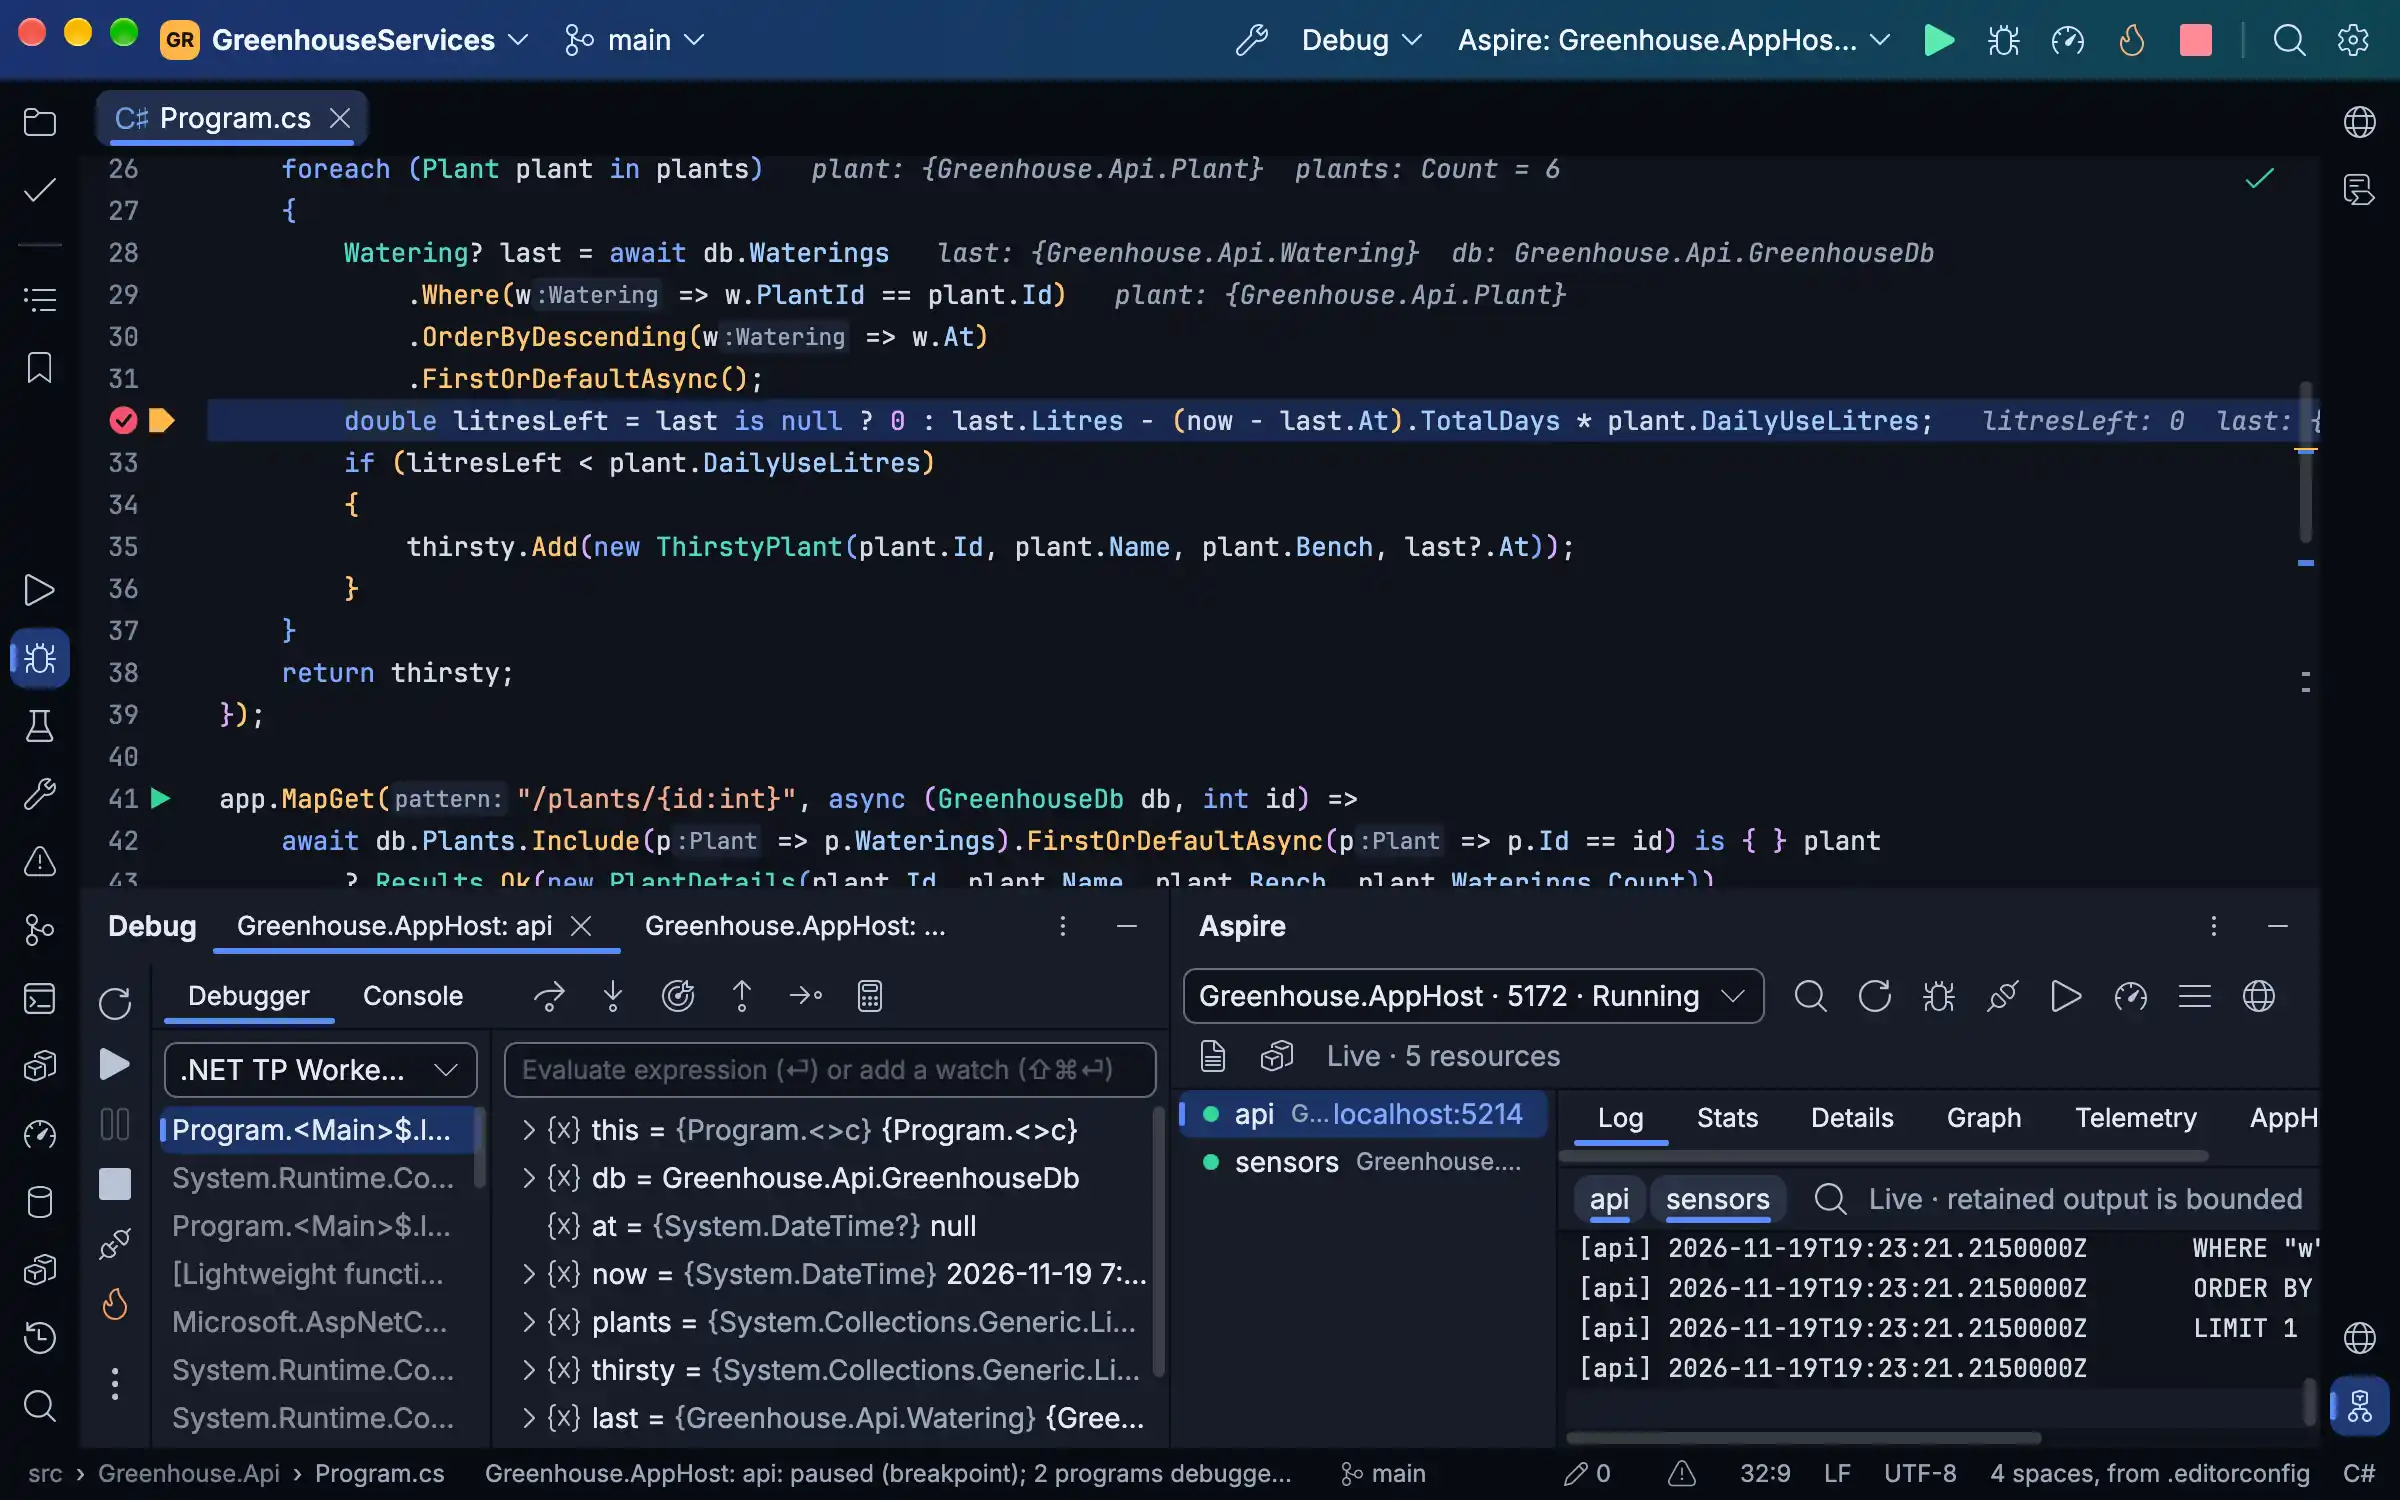
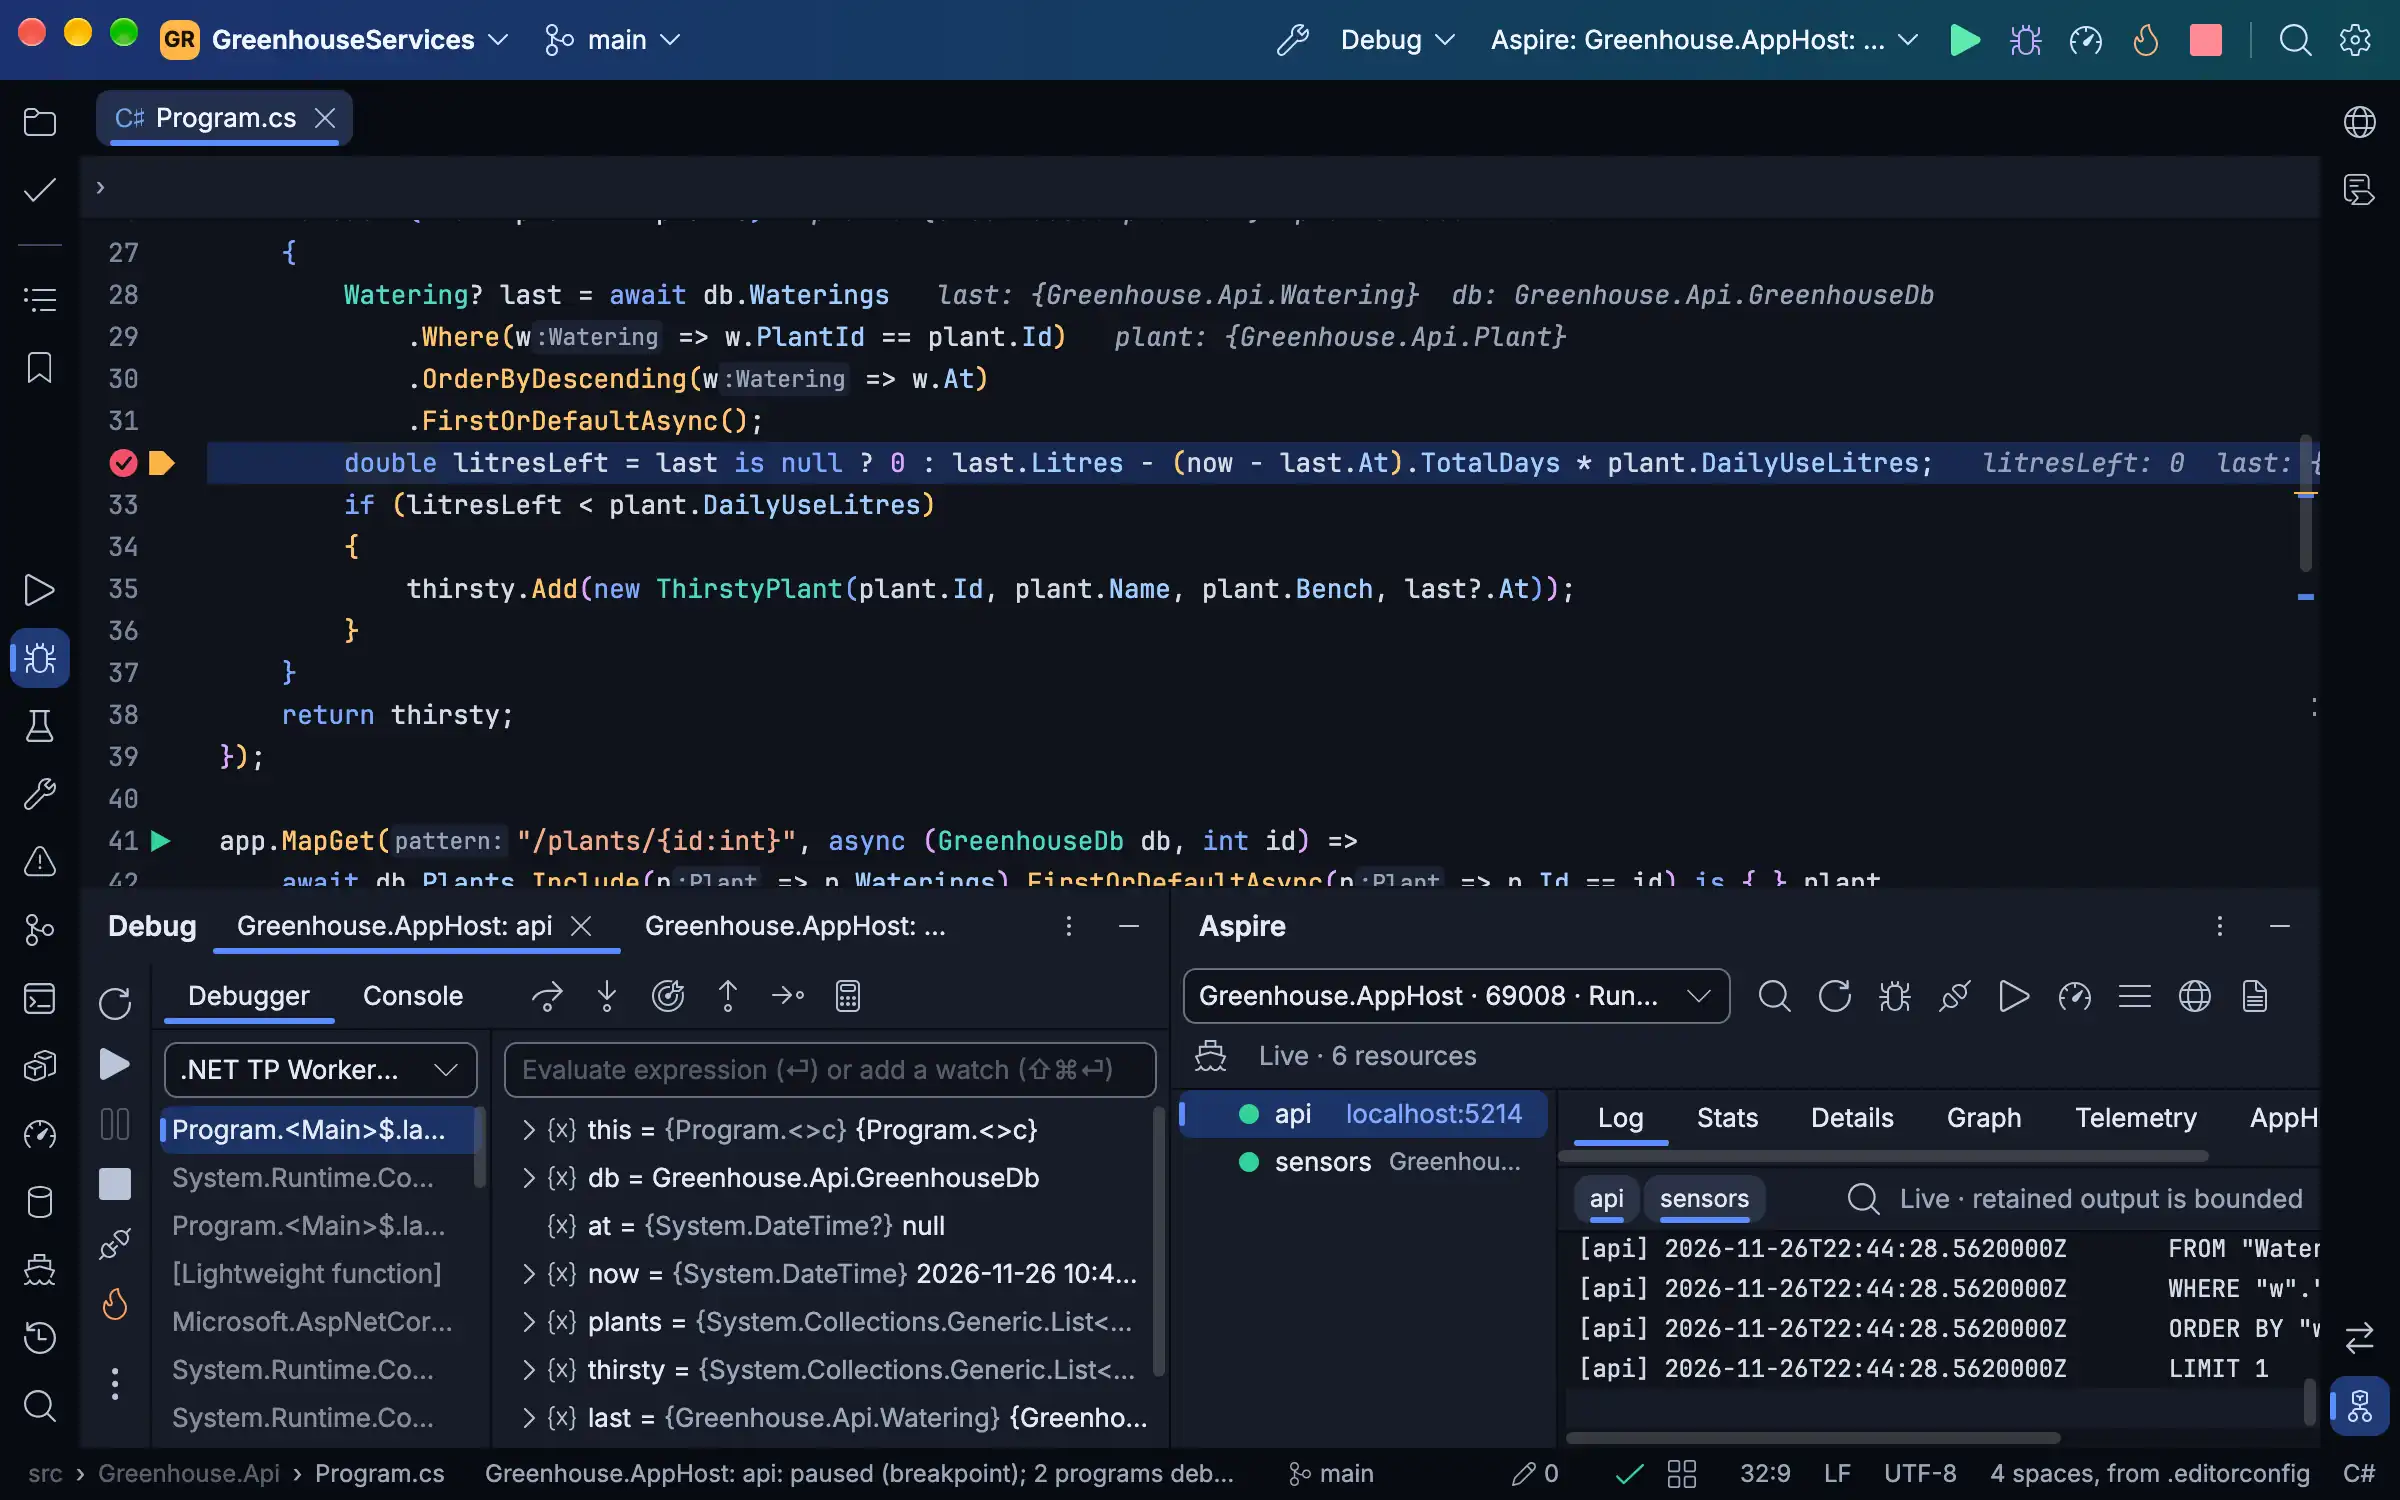
The site's Aspire scenes now run an Aspire 17 AppHost as Aspire's own templates write one: the Greenhouse AppHost is a plain Microsoft.NET.Sdk project on Aspire.Hosting.AppHost and Aspire.Hosting.Dotnet 17.0.0 (Directory.Packages.props, at Passenger's AspireTemplatesVersion again), adding the API an
Claude-Session: https://claude.ai/code/session_01SLhtVTgj45BawtHUm54XWr

diff --git a/tools/site-shots/services/src/Greenhouse.AppHost/AppHost.cs b/tools/site-shots/services/src/Greenhouse.AppHost/AppHost.cs
@@ -1,8 +1,10 @@
+using Aspire.Hosting.Dotnet;
+
 IDistributedApplicationBuilder builder = DistributedApplication.CreateBuilder(args);
 
-IResourceBuilder<ProjectResource> api = builder.AddProject<Projects.Greenhouse_Api>("api");
+IResourceBuilder<DotnetProjectResource> api = builder.AddDotnetProject("api", "../Greenhouse.Api/Greenhouse.Api.csproj");
 
-builder.AddProject<Projects.Greenhouse_Sensors>("sensors")
+builder.AddDotnetProject("sensors", "../Greenhouse.Sensors/Greenhouse.Sensors.csproj")
     .WithReference(api)
     .WaitFor(api);
 
